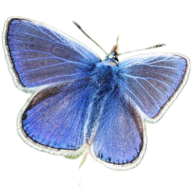
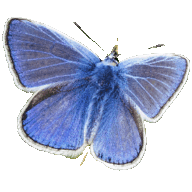
optimize images

diff --git a/src/components/Home.jsx b/src/components/Home.jsx
@@ -5,8 +5,8 @@ import styled from '@emotion/styled'
 
 // maybe use https://uploadcare.com/docs/delivery/adaptive-delivery/#adaptive-delivery
 import ProgressiveImg from './shared/ProgressiveImg'
-import image from '../images/home.jpg'
-import placeholderSrc from '../images/home_small.jpg'
+import image from '../images/home.webp'
+import placeholderSrc from '../images/home_small.webp'
 
 const OuterContainer = styled.div`
   height: 100%;

diff --git a/index.html b/index.html
@@ -3,6 +3,7 @@
   <head>
     <meta charset="UTF-8" />
     <link rel="apple-touch-icon" sizes="180x180" href="/apple-touch-icon.png" />
+    <link rel="icon" href="/favicon.ico" sizes="any" />
     <link rel="icon" type="image/png" sizes="32x32" href="/favicon-32x32.png" />
     <link rel="icon" type="image/png" sizes="16x16" href="/favicon-16x16.png" />
     <link rel="mask-icon" href="/safari-pinned-tab.svg" color="#943400" />
